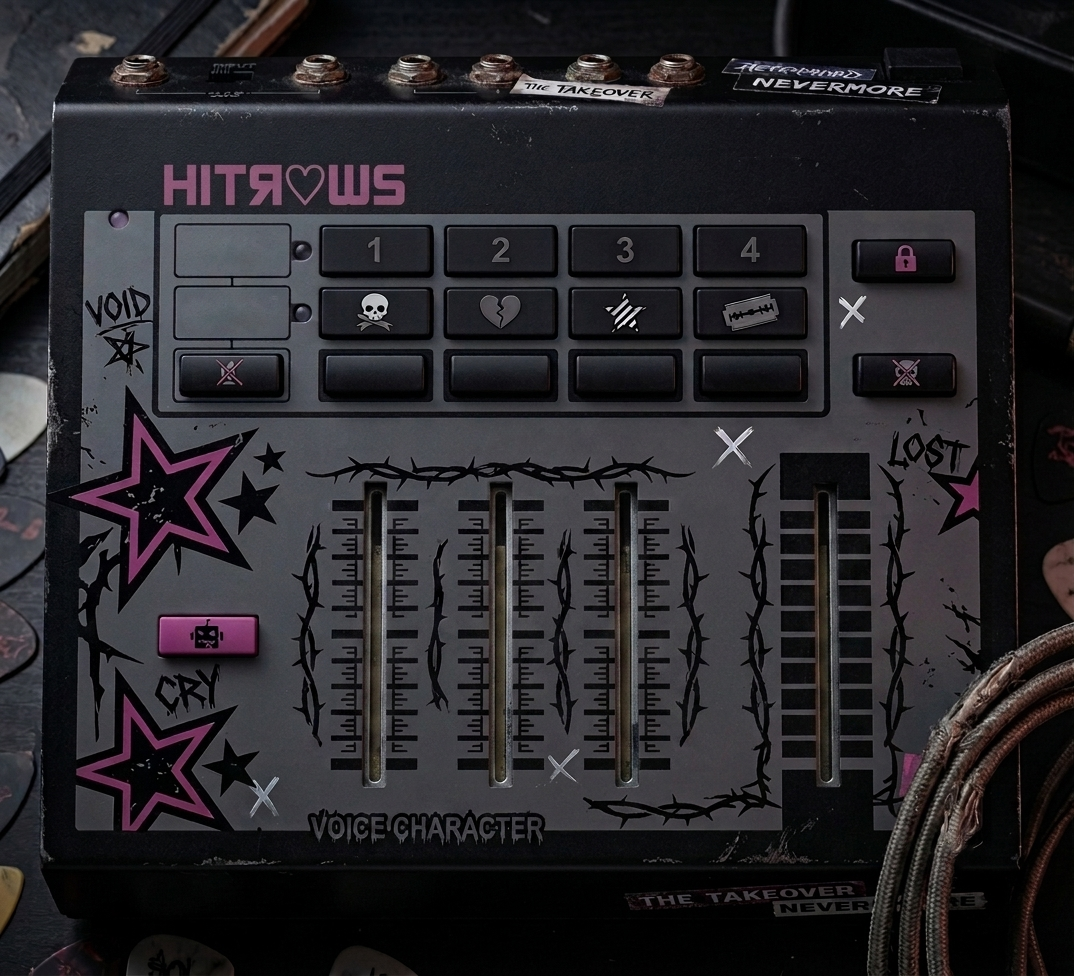
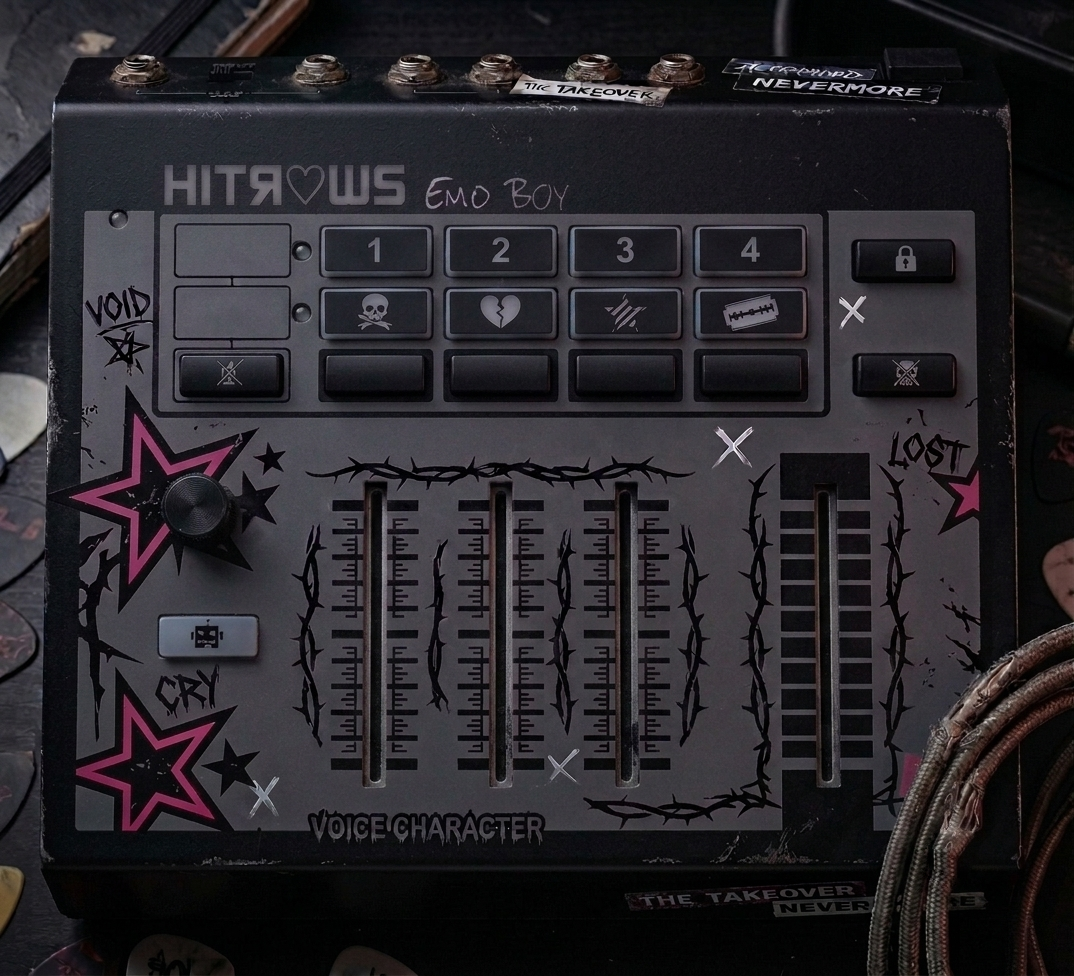
0.1.5: Robot Note knob + Robot footswitch backlight
User supplied a rotary-knob background, a knob.png guide (yellow circle
marking the knob's face - centre (194,506), radius 28) and a pre-rendered
"light transp.png" with every button's lit glow already expanded/softened,
so no manual glow synthesis was needed.

Shown two knob tick-mark styles and the composited glow before writing any
code, per the user's explicit ask - picked the muted tone (matches the
fader caps' own inlaid stripe) and confirmed the glow composite as-is.

Asked rather than assumed on two points: the user's literal wording for
the knob's rotation ("5 o'clock is C, 7 o'clock is B") described the
opposite of a standard pot's sweep direction - confirmed the intent was
actually the standard direction (clockwise = higher note), which turned
out to need no inversion math since it's JUCE's own default rotary angle
convention. Also confirmed the Robot button is a Robot<->Transpose toggle,
footswitch-style.

RobotKnob (custom-painted tick, no LookAndFeel chrome) and RobotButton
(overlays Resources/robotglow.png when Mode==Robot, toggles Mode on click)
added to PluginEditor. Synced via a 30Hz Timer polling the raw parameter
rather than an AudioProcessorValueTreeState listener callback, which can
fire from the audio thread for host automation - repaint() isn't safe
there.

Verified via tools/preview.cpp (robotNote 0/11/23 forced into Robot mode)
before calling it done: tick lands at 7/12/5 o'clock as expected, backlight
[…]

diff --git a/Source/PluginEditor.cpp b/Source/PluginEditor.cpp
@@ -35,14 +35,46 @@ namespace
     // half the cap's height, so the cap sprite never gets clipped against
     // the component's own bounds when it's drawn at the very top or
     // bottom of its travel (Component::paint is clipped to local bounds).
-    juce::Rectangle<int> faderBounds (FaderSlot slot)
+    juce::Rectangle<int> scaledNativeRect (juce::Rectangle<int> native)
     {
-        const int capHalfHeight = kCapNativeHeight / 2;
-        juce::Rectangle<int> native { slot.xCenter - kFaderHalfWidth, kFaderTravelTop - capHalfHeight,
-                                       kFaderHalfWidth * 2, (kFaderTravelBottom - kFaderTravelTop) + kCapNativeHeight };
         return { juce::roundToInt (native.getX() * kUiScale), juce::roundToInt (native.getY() * kUiScale),
                  juce::roundToInt (native.getWidth() * kUiScale), juce::roundToInt (native.getHeight() * kUiScale) };
     }
+
+    juce::Rectangle<int> faderBounds (FaderSlot slot)
+    {
+        const int capHalfHeight = kCapNativeHeight / 2;
+        return scaledNativeRect ({ slot.xCenter - kFaderHalfWidth, kFaderTravelTop - capHalfHeight,
+                                    kFaderHalfWidth * 2, (kFaderTravelBottom - kFaderTravelTop) + kCapNativeHeight });
+    }
+
+    // Robot Note knob - centre/radius measured off pics/knob.png's yellow
+    // guide circle (alpha bounding box), cross-checked visually against
+    // where the knob's face actually sits in pics/bg-clean.png.
+    constexpr int kKnobCentreX = 194;
+    constexpr int kKnobCentreY = 506;
+    constexpr int kKnobRadius = 28;
+    juce::Rectangle<int> knobBounds() { return scaledNativeRect ({ kKnobCentreX - kKnobRadius, kKnobCentreY - kKnobRadius, kKnobRadius * 2, kKnobRadius * 2 }); }
+
+    // Standard ~300 degree pot sweep, measured in the clockwise-from-12
+    // convention: 7 o'clock (-150deg) to 5 o'clock (+150deg), through 12.
+    // 2026-08-20, confirmed with the user: clockwise = higher note, so
+    // 7 o'clock/minimum-rotation = C (index 0), 5 o'clock/maximum = B
+    // (index 23) - i.e. no inversion needed, this is JUCE's own default
+    // rotary-slider angle convention.
+    constexpr float kKnobStartAngle = -2.6180f;
+    constexpr float kKnobEndAngle = 2.6180f;
+
+    // Glow sprite bounds within pics/"light transp.png" (cropped into
+    // Resources/robotglow.png with a padding margin so its soft falloff
+    // isn't clipped) - measured off the sprite's own alpha channel, not
+    // eyeballed. Doubles as the button's clickable area: a bit larger
+    // than the plain button rect underneath, which only makes it easier
+    // to hit, and doesn't overlap the knob above it.
+    constexpr int kRobotGlowX = 120, kRobotGlowY = 575, kRobotGlowW = 180, kRobotGlowH = 120;
+    juce::Rectangle<int> robotGlowBounds() { return scaledNativeRect ({ kRobotGlowX, kRobotGlowY, kRobotGlowW, kRobotGlowH }); }
+
+    const juce::Colour kKnobTickColour { 190, 120, 150 }; // matches the fader caps' own inlaid stripe tone - user's pick over the brighter branding pink
 }
 
 EmoBoyEditor::FaderOverlay::FaderOverlay (const juce::Image& capImageIn)
@@ -79,6 +111,50 @@ void EmoBoyEditor::FaderOverlay::mouseDoubleClick (const juce::MouseEvent&)
         onDoubleClick();
 }
 
+EmoBoyEditor::RobotKnob::RobotKnob()
+{
+    setSliderStyle (juce::Slider::RotaryHorizontalVerticalDrag);
+    setTextBoxStyle (juce::Slider::NoTextBox, true, 0, 0);
+}
+
+void EmoBoyEditor::RobotKnob::paint (juce::Graphics& g)
+{
+    const auto bounds = getLocalBounds().toFloat();
+    const double range = getMaximum() - getMinimum();
+    const float proportion = range > 0.0 ? (float) ((getValue() - getMinimum()) / range) : 0.0f;
+    const float angle = kKnobStartAngle + proportion * (kKnobEndAngle - kKnobStartAngle);
+
+    const auto centre = bounds.getCentre();
+    const float radius = bounds.getWidth() * 0.5f;
+    const float rIn = radius * 0.30f;
+    const float rOut = radius * 0.85f;
+
+    juce::Point<float> p1 (centre.x + rIn * std::sin (angle), centre.y - rIn * std::cos (angle));
+    juce::Point<float> p2 (centre.x + rOut * std::sin (angle), centre.y - rOut * std::cos (angle));
+
+    g.setColour (kKnobTickColour);
+    g.drawLine ({ p1, p2 }, juce::jmax (2.0f, radius * 0.09f));
+}
+
+EmoBoyEditor::RobotButton::RobotButton() : juce::Button ({}) {}
+
+void EmoBoyEditor::RobotButton::setGlowImage (const juce::Image& glowImage) { glow = glowImage; }
+
+void EmoBoyEditor::RobotButton::setLit (bool shouldBeLit)
+{
+    if (lit != shouldBeLit)
+    {
+        lit = shouldBeLit;
+        repaint();
+    }
+}
+
+void EmoBoyEditor::RobotButton::paintButton (juce::Graphics& g, bool, bool)
+{
+    if (lit && glow.isValid())
+        g.drawImage (glow, getLocalBounds().toFloat());
+}
+
 EmoBoyEditor::EmoBoyEditor (EmoBoyProcessor& p)
     : AudioProcessorEditor (&p), proc (p),
       background (juce::ImageCache::getFromMemory (BinaryData::pedalbg_png, BinaryData::pedalbg_pngSize)),
@@ -98,9 +174,30 @@ EmoBoyEditor::EmoBoyEditor (EmoBoyProcessor& p)
     driveFader.onDoubleClick = [this] { beginTextEntry (driveFader); };
     mixFader.onDoubleClick = [this] { beginTextEntry (mixFader); };
 
+    addAndMakeVisible (robotKnob);
+    robotNoteAttachment = std::make_unique<juce::AudioProcessorValueTreeState::SliderAttachment> (proc.apvts, Param::robotNote, robotKnob);
+
+    robotButton.setGlowImage (juce::ImageCache::getFromMemory (BinaryData::robotglow_png, BinaryData::robotglow_pngSize));
+    addAndMakeVisible (robotButton);
+    robotButton.onClick = [this]
+    {
+        auto* modeParam = proc.apvts.getParameter (Param::mode);
+        const bool isRobot = (int) std::round (modeParam->convertFrom0to1 (modeParam->getValue())) == (int) Param::Mode::Robot;
+        const auto newMode = isRobot ? Param::Mode::Transpose : Param::Mode::Robot;
+        modeParam->setValueNotifyingHost (modeParam->convertTo0to1 ((float) (int) newMode));
+    };
+
+    startTimerHz (30);
+
     const int nativeW = background.getWidth() > 0 ? background.getWidth() : 1074;
     const int nativeH = background.getHeight() > 0 ? background.getHeight() : 976;
     setSize (juce::roundToInt (nativeW * kUiScale), juce::roundToInt (nativeH * kUiScale));
+}
+
+void EmoBoyEditor::timerCallback()
+{
+    const bool isRobot = (int) proc.apvts.getRawParameterValue (Param::mode)->load() == (int) Param::Mode::Robot;
+    robotButton.setLit (isRobot);
 }
 
 void EmoBoyEditor::paint (juce::Graphics& g)
@@ -153,4 +250,7 @@ void EmoBoyEditor::resized()
     formantFader.setBounds (faderBounds (kFormantSlot));
     driveFader.setBounds (faderBounds (kDriveSlot));
     mixFader.setBounds (faderBounds (kMixSlot));
+
+    robotKnob.setBounds (knobBounds());
+    robotButton.setBounds (robotGlowBounds());
 }

diff --git a/Source/PluginEditor.h b/Source/PluginEditor.h
@@ -9,13 +9,18 @@
 // one cap cropped out and reused for all 4) that actually slides along the
 // fader's travel, instead of the 0.1.1/0.1.2 thin-line placeholder. Only the
 // 4 continuous parameters implemented so far (Pitch/Formant/Drive/Mix) are
-// exposed - no labels anywhere, by explicit request. Link/Mode/Robot Note
-// still exist and work at their defaults, just not shown here.
+// exposed - no labels anywhere, by explicit request. Link/Quantize aren't
+// reachable from this UI at all yet.
 //
 // Double-clicking any fader opens a small numeric entry box (added 0.1.4) -
 // the only "text on the panel" that exists, and only while actively typing.
+//
+// 0.1.5 adds the Robot Note knob and the Robot toggle button/backlight -
+// Mode is now reachable from the UI (toggles Robot <-> Transpose), still
+// with no Quantize access.
 // ---------------------------------------------------------------------------
-class EmoBoyEditor : public juce::AudioProcessorEditor
+class EmoBoyEditor : public juce::AudioProcessorEditor,
+                      private juce::Timer
 {
 public:
     explicit EmoBoyEditor (EmoBoyProcessor&);
@@ -44,12 +49,47 @@ private:
         const juce::Image& cap;
     };
 
+    // The Robot Note pot - a rotary Slider with default LookAndFeel drawing
+    // suppressed the same way; paint() draws only a thin tick at the value's
+    // angle, in the muted tone matching the fader caps' own inlaid stripe
+    // (chosen over the brighter branding pink - user's call, 2026-08-20).
+    class RobotKnob : public juce::Slider
+    {
+    public:
+        RobotKnob();
+        void paint (juce::Graphics&) override;
+    };
+
+    // The ROBOT footswitch. Its unlit look is baked into the background
+    // photo; this just overlays the user-supplied pre-blurred/expanded
+    // glow sprite (pics/"light transp.png", cropped to just this button)
+    // when Mode == Robot, and toggles Mode <-> Transpose on click.
+    class RobotButton : public juce::Button
+    {
+    public:
+        RobotButton();
+        void setGlowImage (const juce::Image& glowImage);
+        void setLit (bool shouldBeLit);
+
+    private:
+        void paintButton (juce::Graphics&, bool, bool) override;
+        juce::Image glow;
+        bool lit = false;
+    };
+
+    void timerCallback() override; // polls Mode to keep the backlight in sync (incl. host automation/state loads, not just clicks here)
+
     EmoBoyProcessor& proc;
     juce::Image background;
     juce::Image capImage;
 
     FaderOverlay pitchFader, formantFader, driveFader, mixFader;
     std::unique_ptr<juce::AudioProcessorValueTreeState::SliderAttachment> pitchAttachment, formantAttachment, driveAttachment, mixAttachment;
+
+    RobotKnob robotKnob;
+    std::unique_ptr<juce::AudioProcessorValueTreeState::SliderAttachment> robotNoteAttachment;
+
+    RobotButton robotButton;
 
     // Created on demand by beginTextEntry(), destroyed once the value is
     // committed - not a permanent fixture, so it never counts as a label

diff --git a/tools/preview.cpp b/tools/preview.cpp
@@ -139,5 +139,29 @@ int main()
         snapshot (proc, "preview_mid.png");
     }
 
+    {
+        EmoBoyProcessor proc;
+        proc.prepareToPlay (44100.0, 512);
+        setParam (proc, Param::mode, (float) (int) Param::Mode::Robot);
+        setParam (proc, Param::robotNote, 0.0f); // C2, index 0 -> 7 o'clock
+        snapshot (proc, "preview_robot_noteC.png");
+    }
+
+    {
+        EmoBoyProcessor proc;
+        proc.prepareToPlay (44100.0, 512);
+        setParam (proc, Param::mode, (float) (int) Param::Mode::Robot);
+        setParam (proc, Param::robotNote, 11.0f); // 12 o'clock-ish, halfway
+        snapshot (proc, "preview_robot_noteMid.png");
+    }
+
+    {
+        EmoBoyProcessor proc;
+        proc.prepareToPlay (44100.0, 512);
+        setParam (proc, Param::mode, (float) (int) Param::Mode::Robot);
+        setParam (proc, Param::robotNote, 23.0f); // B3, index 23 -> 5 o'clock
+        snapshot (proc, "preview_robot_noteB.png");
+    }
+
     return 0;
 }

diff --git a/HANDOFF.md b/HANDOFF.md
@@ -9,6 +9,73 @@ This was an autonomous session per the brief in
 `~/Downloads/logic-demo-brief-for-claude-code.md` — no check-ins, decisions
 made and documented here for the user to review and correct.
 
+## 2026-08-20: 0.1.5 - Robot Note knob + Robot footswitch, first UI element beyond the 4 faders
+
+User supplied 3 more layered assets in `pics/`: an updated `bg-clean.png`
+(now includes a rotary knob graphic and an "Emo Boy" wordmark next to
+"HITROWS"), `knob.png` (transparent, just a yellow guide circle marking
+where the knob's face sits - measured via alpha bounding box: centre
+(194,506), radius 28, cross-checked visually against the knob in
+bg-clean.png), and `light transp.png` (every panel button's lit/backlit
+look, pre-rendered as its own sprite with the glow already expanded ~3%/
+softened ~30% - so no manual glow synthesis was needed, just cropping out
+the Robot button's sprite).
+
+**Shown before building anything**, per the user's explicit ask: two tick-
+mark style options for the knob (bright branding pink vs. a muted tone
+matching the fader caps' own inlaid stripe) and the Robot button's glow
+composited onto the panel. User picked the muted tone and confirmed the
+composited glow as-is.
+
+**Two things worth being confirmed rather than assumed**, both resolved by
+asking directly:
+1. **Rotation direction.** The user's own words ("5 часов это C, 7 часов
+   это B") describe the *opposite* of the standard convention (a normal
+   pot's minimum/counterclockwise limit sits at ~7 o'clock, maximum at
+   ~5 o'clock going the long way through 12) - taken literally, clockwise
+   rotation would *lower* the note from B down to C. Asked rather than
+   silently "fixing" it or blindly implementing the literal wording;
+   confirmed the intent was actually the standard direction (clockwise =
+   higher note, C at 7 o'clock/minimum, B at 5 o'clock/maximum) - which
+   also happens to be JUCE's own default rotary-slider angle convention,
+   so no inversion math was needed after all.
+2. **Robot button behaviour**: confirmed as a toggle (Robot <-> Transpose),
+   footswitch-style, matching the pedal metaphor. Quantize mode is still
+   not reachable from this UI - unchanged from before, just noting it
+   stays that way.
+
+**Implementation** (`Source/PluginEditor.h/.cpp`):
+- `RobotKnob : juce::Slider` (`RotaryHorizontalVerticalDrag` style, default
+  LookAndFeel drawing suppressed same as `FaderOverlay`) draws only a
+  tick line at an angle computed directly from the value - no
+  `setRotaryParameters()` needed since the drawing is fully custom.
+  Angle range -150deg to +150deg (measured clockwise from 12 o'clock),
+  matching the confirmed 7-to-5-o'clock sweep through the top.
+- `RobotButton : juce::Button` draws nothing itself when off (the unlit
+  look is baked into the background photo); when `Mode == Robot`, draws
+  the cropped glow sprite (`Resources/robotglow.png`) over its bounds.
+  `onClick` toggles the `mode` parameter between `Robot` and `Transpose`
+  directly.
+- Kept in sync via a 30Hz `juce::Timer` polling `mode`'s raw parameter
+  value, rather than `AudioProcessorValueTreeState`'s parameter-listener
+  callback - that callback can fire from whatever thread changed the
+  value (the audio thread, for host automation), and `repaint()` isn't
+  safe to call off the message thread. Polling is simple and correct;
+  30Hz is more than enough for a footswitch backlight.
+- New `Resources/robotglow.png`, cropped from `pics/"light transp.png"`
+  with padding around the measured alpha bounding box so the soft
+  falloff isn't clipped, added to the `EmoBoyAssets` binary-data target.
+
+**Verified via `tools/preview.cpp`** before calling it done (3 new
+snapshot cases: `robotNote` = 0/11/23 with `Mode` forced to `Robot`) -
+tick angle lands at 7 o'clock for index 0 (C), ~12 o'clock for index 11,
+5 o'clock for index 23 (B), and the backlight is correctly off in the
+`Mode != Robot` default snapshot and on in all three Robot-mode ones -
+confirming the 30Hz timer sync works even in the offscreen test harness,
+not just interactively.
+
+Version bumped to 0.1.5. Pushed to `github.com/hitrows/emoboy`.
+
 ## 2026-08-20: 0.1.4 - user feedback: pitch step, Drive rescale, auto gain, type-in values
 
 User's read after actually listening: **the Pitch/Formant engine beats Vocal
